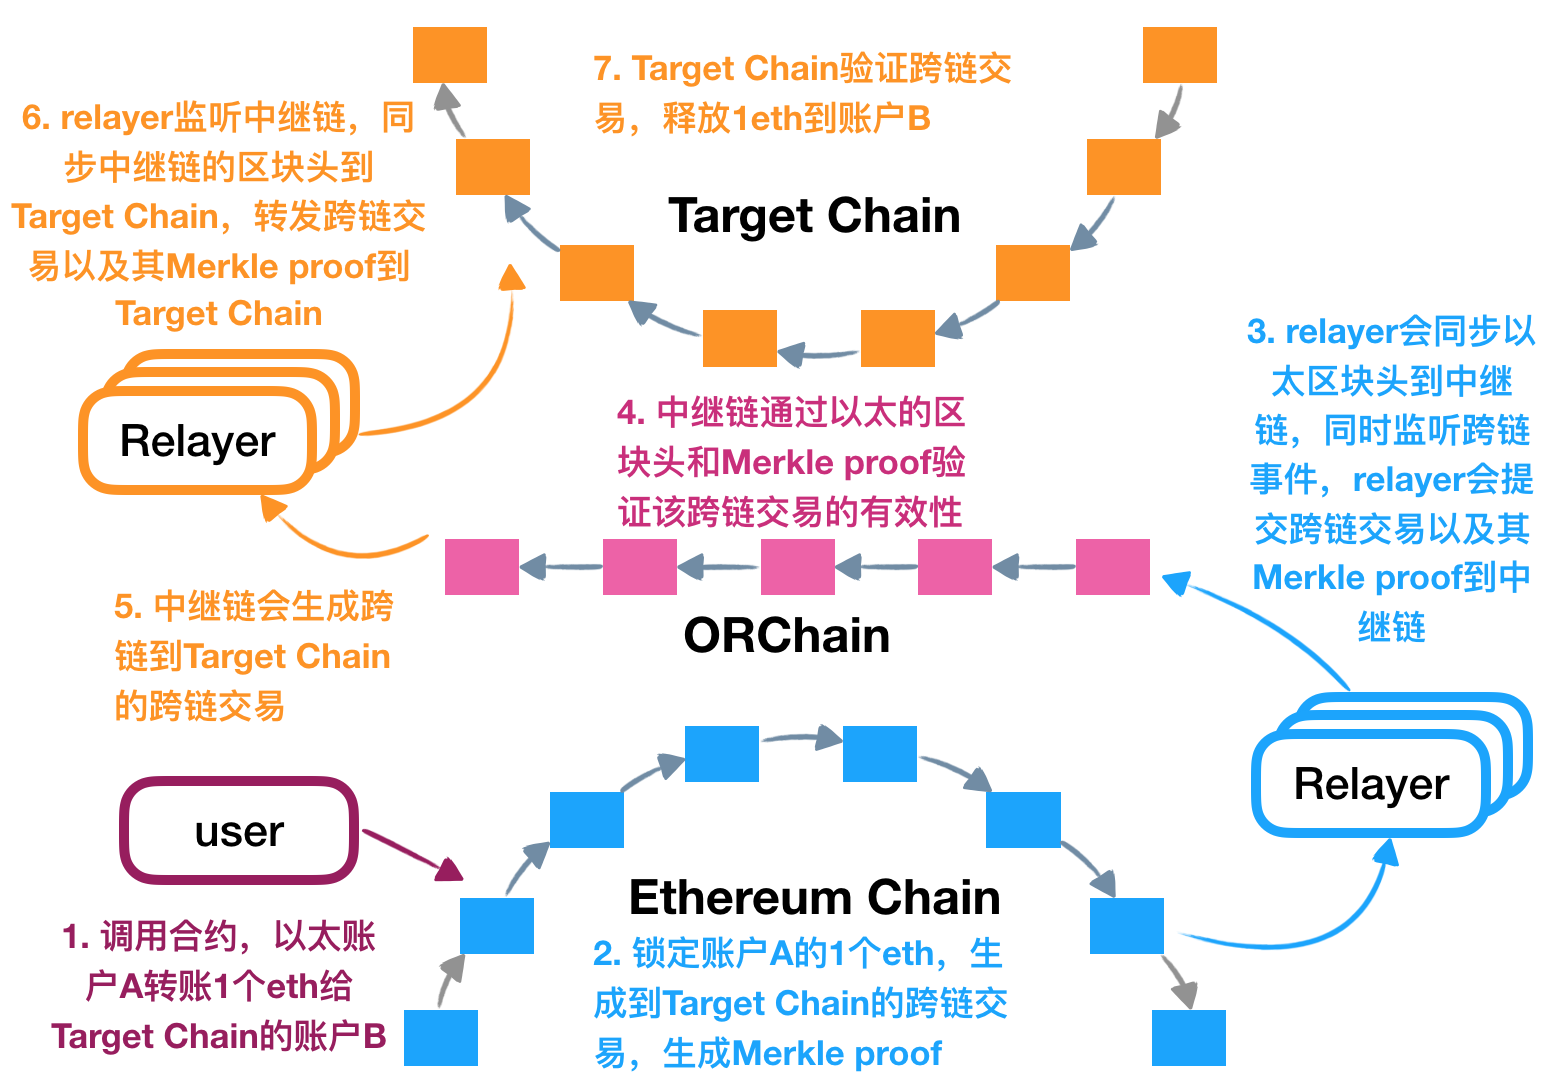
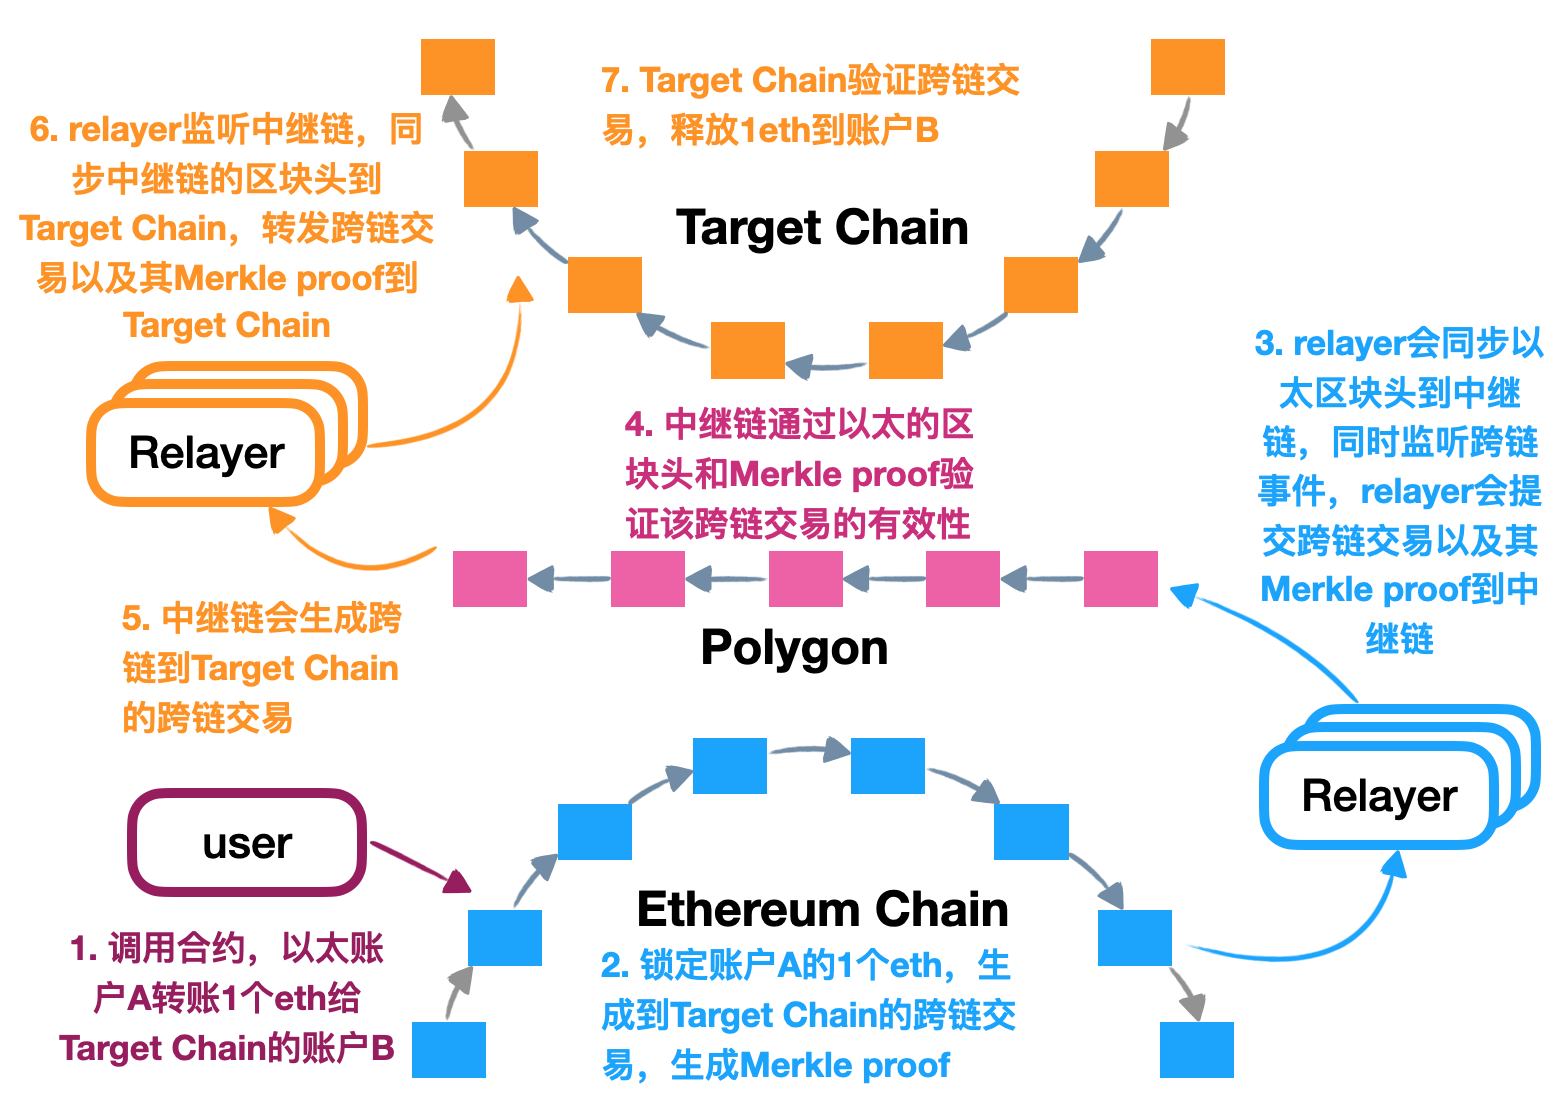
fix wrong spell (#36)

diff --git a/polygon/How_to_join_cross_chain.md b/polygon/How_to_join_cross_chain.md
@@ -2,7 +2,7 @@
 
 ## Overview
 
-Ploygon cross chain ecosystem provides a platform for various different chains to interact and transfer data along with carrying out cross chain transactions. Any chain can freely join the ecosystem. However, the chains that support smart contracts can interact and transfer all kinds of information between chains, while the chains that do not support smart contracts are limited to cross chain asset transfer. There are three factors that determine whether a blockchain can join the Ploygon cross chain ecosystem: 
+Polygon cross chain ecosystem provides a platform for various different chains to interact and transfer data along with carrying out cross chain transactions. Any chain can freely join the ecosystem. However, the chains that support smart contracts can interact and transfer all kinds of information between chains, while the chains that do not support smart contracts are limited to cross chain asset transfer. There are three factors that determine whether a blockchain can join the Polygon cross chain ecosystem: 
 
 - The system implements multiple interfaces either using smart contracts, or as core API that can be used to interact with the chain
 - The chain needs to provide its block header format, the serialization and deserialization methods used, and the mode of signature verification in order to allow the relay chain to be able to process and verify block headers.

diff --git a/ont/README_CN.md b/ont/README_CN.md
@@ -41,7 +41,7 @@
 
 
 
-<div align=center><img width="750" height="330" src="resources/ont2orc.png"/></div>
+<div align=center><img width="750" height="330" src="resources/ont2poly.png"/></div>
 
 ONT/ONG跨链到目标链的流程如上：
 
@@ -51,7 +51,7 @@ ONT/ONG跨链到目标链的流程如上：
 - 中继链验证merkle proof的合法性，将跨链交易的信息以事件的形式返回，目标链的Relayer会把去往自己链的交易捕获到，然后转发到该链；
 - 目标链的跨链管理合约验证中继链merkle proof的合法性，验证通过则说明原链上的跨链信息合法，目标链的跨链管理合约会调用相应的业务合约，执行目标链上的业务内容。
 
-<div align=center><img width="750" height="310" src="resources/orc2ont.png"/></div>
+<div align=center><img width="750" height="310" src="resources/poly2ont.png"/></div>
 
 ONT/ONG从其他链跨回本体的流程如上：
 

diff --git a/eth/README.md b/eth/README.md
@@ -71,7 +71,7 @@ A relayer is necessary in this condition that listens for cross chain transactio
 
 Ethereum to relay chain cross chain transaction:
 
-<div align=center><img width="780" height="360" src="pic/eth2orc.png"/></div>
+<div align=center><img width="780" height="360" src="pic/eth2poly.png"/></div>
 
 ### Transactions from the Relay Chain to Ethereum  
 
@@ -84,7 +84,7 @@ Sending a transaction from the relay chain to Ethereum is much like the opposite
 
 The process flow of cross chain transactions from Ethereum to other chains:
 
-<div align=center><img width="550" height="400" src="pic/cross%20progress.png"/></div>
+<div align=center><img width="700" height="500" src="pic/cross_progress_en.png"/></div>
 
 1. The user sends a transaction that, for instance, transfers 1 ETH from account A on Ethereum to account B on the target chain
 

diff --git a/polygon/How_to_join_cross_chain_cn.md b/polygon/How_to_join_cross_chain_cn.md
@@ -2,7 +2,7 @@
 
 ## 概述
 
-Ploygon跨链是异构链跨链解决方案，任何区块链都可以加入，具备智能合约的链之间实现了跨链调用合约和资产互转，无智能合约的链仅能实现资产互转。想要加入Ploygon跨链的区块链需要具备三个条件：
+Polygon跨链是异构链跨链解决方案，任何区块链都可以加入，具备智能合约的链之间实现了跨链调用合约和资产互转，无智能合约的链仅能实现资产互转。想要加入Polygon跨链的区块链需要具备三个条件：
 
 - 实现一系列的接口，这些接口既可以以智能合约的方式来实现，也可以在底层直接实现。
 - 该链还需要提交其区块头格式，序列化和反序列话方式和签名验证方式，以便中继链可以解析并验证其区块头。

diff --git a/polygon/relayer_management.md b/polygon/relayer_management.md
@@ -1,4 +1,4 @@
-# Administrator Privilege System of Ploygon Chain
+# Administrator Privilege System of Polygon Chain
 
 The relay chain does not have a transaction fee setting, but there are certain permissions required to communicate with the relay chain. Permissions are granted to individual accounts and each account has a unique public-private key pairs. Each transaction is signed using the account's private key, and on the receiver's end the the signature is verified using the public key to determine the sender of the transaction. This puts in place a transaction system that can be managed conveniently and monitored. The account that can interact with the relay chain is referred to as the **relayer**.
 

diff --git a/ont/README.md b/ont/README.md
@@ -44,9 +44,9 @@ The synced block headers are stored in the header synchronization contract. Any 
 
 ## Cross Chain Transactions Between Ontology and the Relay Chain
 
-<div align=center><img width="750" height="330" src="resources/ont2orc.png"/></div>
+<div align=center><img width="750" height="330" src="resources/ont2poly.png"/></div>
 
-<div align=center><img width="750" height="310" src="resources/orc2ont.png"/></div>
+<div align=center><img width="750" height="310" src="resources/poly2ont.png"/></div>
 
 The process of block header and the respective merkle proof transaction from the relay chain to the target chain is as follows:
 

diff --git a/polygon/relayer_management_cn.md b/polygon/relayer_management_cn.md
@@ -1,4 +1,4 @@
-# Ploygon的权限系统
+# Polygon的权限系统
 
 中继链没有手续费设置，但是与中继链交互需要有相应的权限，中继链的权限是基于账户的，每个账户使用独立且唯一的公私钥对，发起交易时使用其私钥进行签名，接收方可通过公钥验签知道交易具体是由哪个账户发出，实现交易的可控及后续监管的追溯。能够与中继链交互的账户称为relayer。
 

diff --git a/eth/ethereum_cross_chain_specification_CN.md b/eth/ethereum_cross_chain_specification_CN.md
@@ -59,7 +59,7 @@
 
 以太跨链到中继链：
 
-<div align=center><img width="780" height="360" src="pic/eth2orc.png"/></div>
+<div align=center><img width="780" height="360" src="pic/eth2poly.png"/></div>
 
 ### 从中继链跨链到以太坊链
 

diff --git a/polygon/side_chain_management.md b/polygon/side_chain_management.md
@@ -1,4 +1,4 @@
-<h1 align=center> Ploygon Chain Governance Mechanism </h1>
+<h1 align=center> Polygon Chain Governance Mechanism </h1>
 
 ## Side Chain Management
 

diff --git a/polygon/consensus_node_management.md b/polygon/consensus_node_management.md
@@ -1,4 +1,4 @@
-<h1 align=center>Ploygon Chain Governance Mechanism </h1>
+<h1 align=center>Polygon Chain Governance Mechanism </h1>
 
 ## Node Governance
 

diff --git a/polygon/consensus_node_management_cn.md b/polygon/consensus_node_management_cn.md
@@ -1,4 +1,4 @@
-# Ploygon的治理机制
+# Polygon的治理机制
 
 ## 节点治理
 
